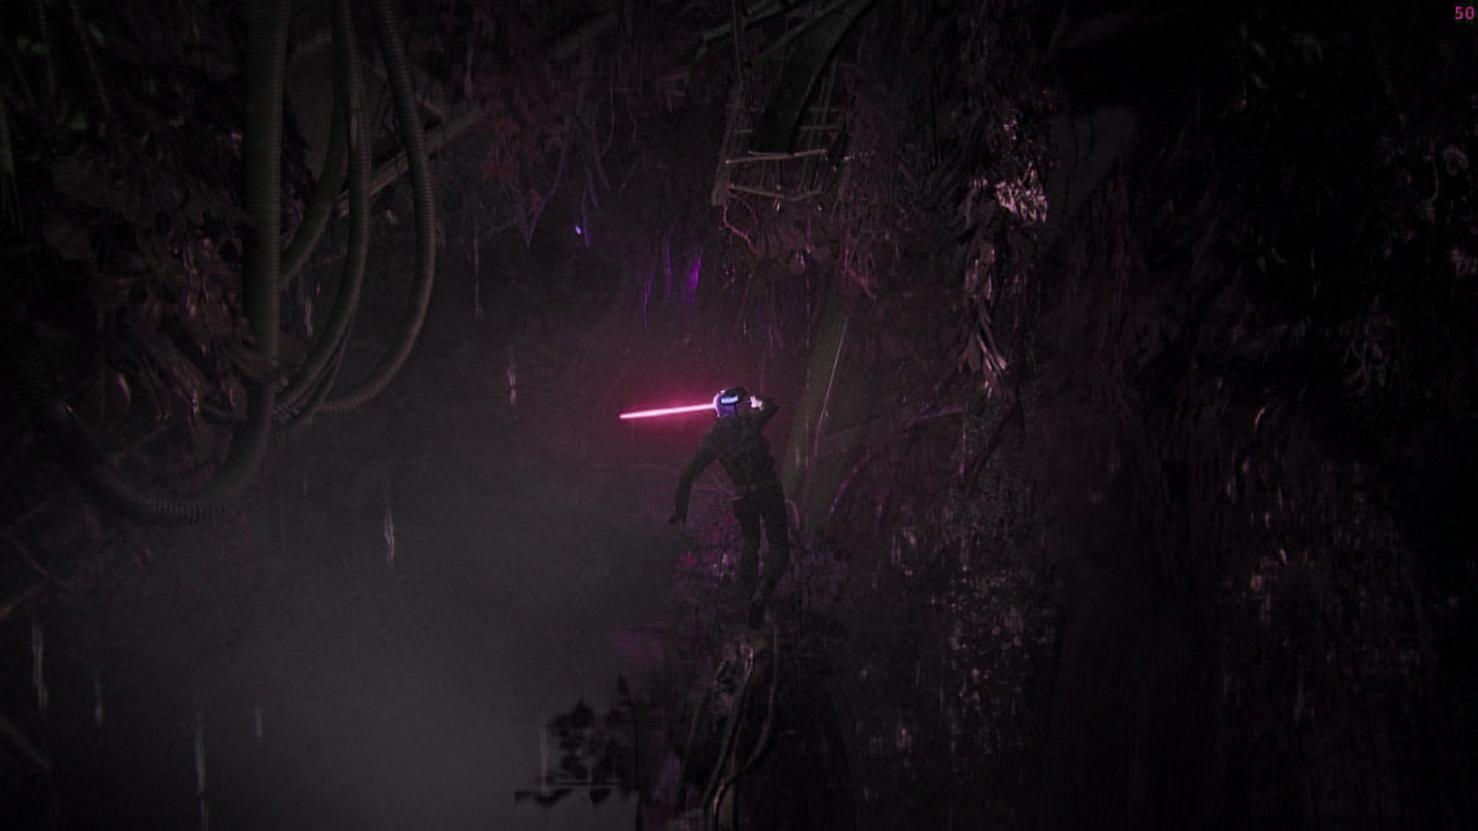
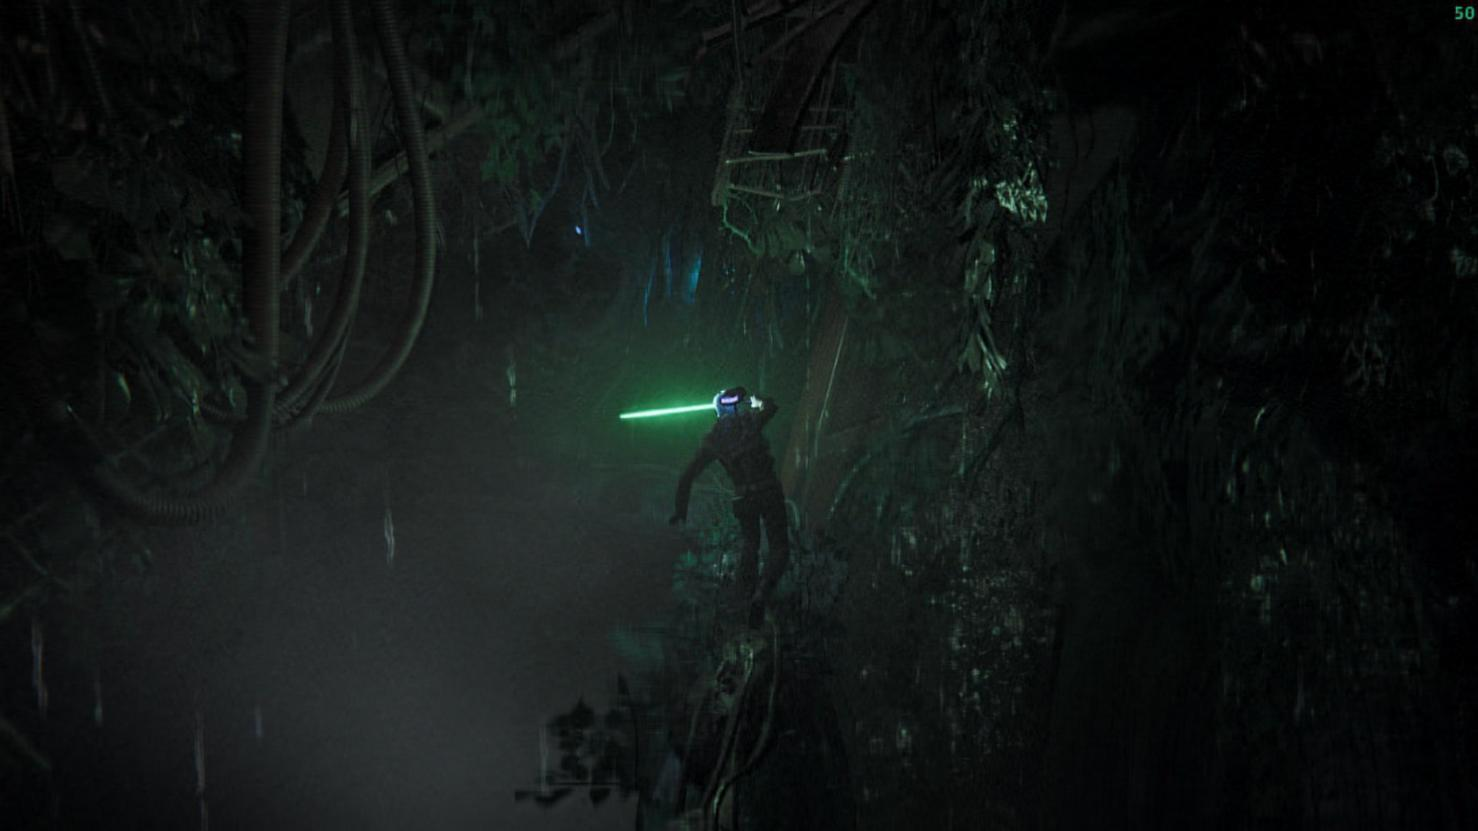
fix rgb

diff --git a/main.py b/main.py
@@ -65,17 +65,17 @@ def image_compressor(pca):
         pca_r = PCA(n_components=pca_components)
         reduced_r = pca_r.fit_transform(r)
 
-        pca_b = PCA(n_components=pca_components)
-        reduced_b = pca_b.fit_transform(g)
-
         pca_g = PCA(n_components=pca_components)
-        reduced_g = pca_g.fit_transform(b)
+        reduced_g = pca_g.fit_transform(g)
+
+        pca_b = PCA(n_components=pca_components)
+        reduced_b = pca_b.fit_transform(b)
         # combined = np.array([reduced_r,reduced_g,reduced_b])
         reconstructed_r = pca_r.inverse_transform(reduced_r)
         reconstructed_g = pca_g.inverse_transform(reduced_g)
         reconstructed_b = pca_b.inverse_transform(reduced_b)
         # plt.imshow(reconstructed_r)
-        img_reconstructed = cv2.merge((reconstructed_b,reconstructed_g,reconstructed_r))
+        img_reconstructed = cv2.merge((reconstructed_r,reconstructed_g,reconstructed_b))
         image_name = image[0:len(image)-4]
         img_path = os.path.join('.',f'downloads/{image_name}')
         plt.imshow(img_reconstructed)
